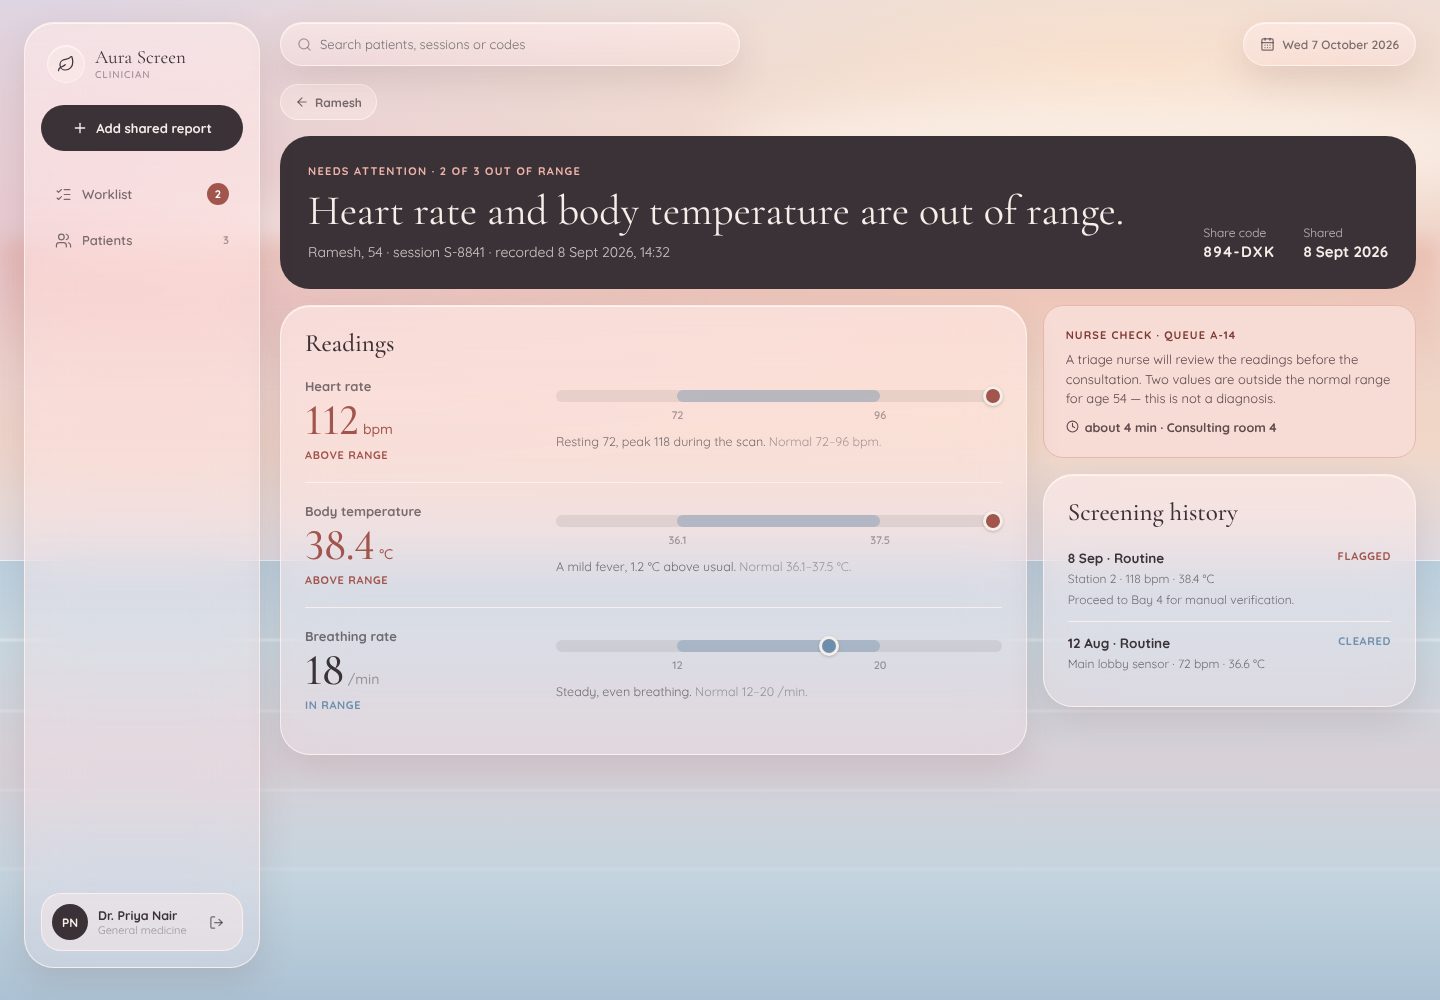
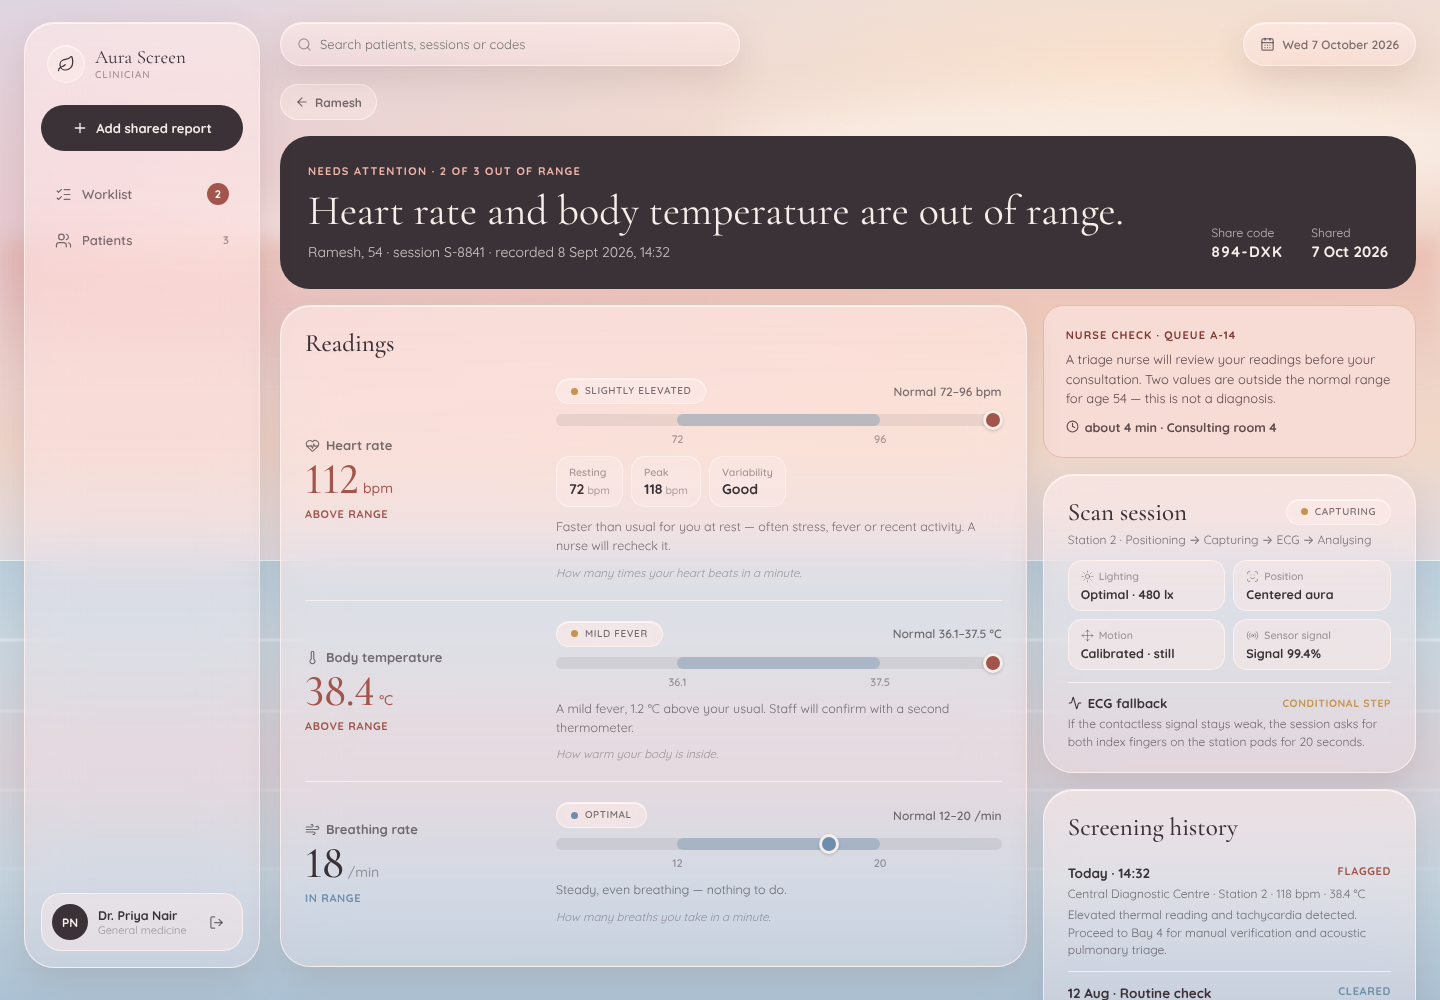
Show the full report on the doctor side, as the patient sees it
- Each reading now carries its status (e.g. "Slightly elevated"), the
  normal range, what the measure is, and the note; heart rate adds
  resting, peak and variability
- New scan session panel: station, steps run, capture conditions
  (lighting, position, motion, sensor signal) and the ECG fallback
- The report's encryption note sits at the foot of the page
- API: GET /doctor/reports/:code also returns the screening session
  behind the report (`scan`)

Claude-Session: https://claude.ai/code/session_01YA8w2iACEsj6YELkVvd1D9

diff --git a/client/src/pages/Doctor/DoctorReport.jsx b/client/src/pages/Doctor/DoctorReport.jsx
@@ -1,8 +1,8 @@
 import { Link, useParams } from 'react-router-dom';
-import { ArrowLeft, Clock } from 'lucide-react';
+import { ArrowLeft, Clock, ShieldCheck, Sun, ScanFace, Move, Radio, Activity } from 'lucide-react';
 import { getDoctorReport } from '../../api';
 import useResource from '../../hooks/useResource';
-import { Spinner, ErrorState } from '../../components/ui';
+import { Spinner, ErrorState, StatusPill } from '../../components/ui';
 import { rangePosition } from '../../utils/range';
 import { RESULTS } from '../../utils/results';
 import { formatDate } from '../../components/SessionCard';
@@ -12,6 +12,23 @@ import styles from './DoctorReport.module.css';
 
 const POSITION_LABEL = { above: 'Above range', below: 'Below range', within: 'In range' };
 
+/** Readings some measures carry beyond the headline value. */
+const EXTRAS = {
+  heartRate: [
+    { key: 'resting', label: 'Resting', unit: 'bpm' },
+    { key: 'peak', label: 'Peak', unit: 'bpm' },
+    { key: 'variability', label: 'Variability' },
+  ],
+};
+
+/** The capture conditions the station recorded, in the order a clinician checks them. */
+const ENVIRONMENT = [
+  { key: 'lighting', label: 'Lighting', icon: Sun },
+  { key: 'position', label: 'Position', icon: ScanFace },
+  { key: 'motion', label: 'Motion', icon: Move },
+  { key: 'sensorStream', label: 'Sensor signal', icon: Radio },
+];
+
 /** One shared report, as the doctor reads it: the verdict first, every reading on its range, then the nurse check and history. */
 export default function DoctorReport() {
   const code = normaliseCode(useParams().code);
@@ -20,7 +37,7 @@ export default function DoctorReport() {
   if (error) return <ErrorState message={error} />;
   if (!data) return <Spinner />;
 
-  const { report, patient, history } = data;
+  const { report, patient, history, scan } = data;
   const level = triage(report);
   const readings = RESULTS.filter(({ key }) => report[key]);
   const recorded = report.recordedAt && new Date(report.recordedAt);
@@ -58,14 +75,17 @@ export default function DoctorReport() {
         <section className={styles.panel}>
           <h2 className={styles.panelTitle}>Readings</h2>
           <ul className={styles.readings}>
-            {readings.map(({ key, label, unit }) => {
+            {readings.map(({ key, label, unit, icon: Icon, measures }) => {
               const r = report[key];
               const position = rangePosition(r.value, r.normalRange)?.position;
               const out = position && position !== 'within';
+              const extras = (EXTRAS[key] ?? []).filter((x) => r[x.key] != null && r[x.key] !== '');
               return (
                 <li key={key} className={styles.reading}>
                   <div>
-                    <h3 className={styles.readingLabel}>{label}</h3>
+                    <h3 className={styles.readingLabel}>
+                      <Icon size={15} strokeWidth={1.8} aria-hidden="true" /> {label}
+                    </h3>
                     <p className={`${styles.value} ${out ? styles.out : ''}`.trim()}>
                       {r.value}
                       <small> {unit}</small>
@@ -73,11 +93,26 @@ export default function DoctorReport() {
                     <p className={`${styles.position} ${out ? styles.out : ''}`.trim()}>{POSITION_LABEL[position] ?? r.status}</p>
                   </div>
                   <div className={styles.readingDetail}>
+                    <div className={styles.readingTop}>
+                      {r.status && <StatusPill>{r.status}</StatusPill>}
+                      {r.normalRange && <span className={styles.range}>Normal {r.normalRange}</span>}
+                    </div>
                     <RangeTrack value={r.value} normalRange={r.normalRange} unit={unit} size="lg" />
-                    <p className={styles.note}>
-                      {r.note}
-                      {r.normalRange && <span className={styles.range}> Normal {r.normalRange}.</span>}
-                    </p>
+                    {extras.length > 0 && (
+                      <dl className={styles.extras}>
+                        {extras.map((x) => (
+                          <div key={x.key}>
+                            <dt>{x.label}</dt>
+                            <dd>
+                              {r[x.key]}
+                              {x.unit && <small> {x.unit}</small>}
+                            </dd>
+                          </div>
+                        ))}
+                      </dl>
+                    )}
+                    {r.note && <p className={styles.note}>{r.note}</p>}
+                    <p className={styles.measures}>{measures}</p>
                   </div>
                 </li>
               );
@@ -95,6 +130,8 @@ export default function DoctorReport() {
               </p>
             </section>
           )}
+
+          {scan && <ScanPanel scan={scan} />}
 
           <section className={styles.panel}>
             <h2 className={styles.panelTitle}>Screening history</h2>
@@ -119,7 +156,53 @@ export default function DoctorReport() {
           </section>
         </div>
       </div>
+
+      {report.encryptionNote && (
+        <p className={`${styles.secure} icon-line`}>
+          <ShieldCheck size={13} aria-hidden="true" /> {report.encryptionNote}
+        </p>
+      )}
     </>
+  );
+}
+
+const capitalise = (text) => text.charAt(0).toUpperCase() + text.slice(1);
+
+/** Where and how the readings were captured: station, steps run, capture conditions, and the ECG fallback. */
+function ScanPanel({ scan }) {
+  const conditions = ENVIRONMENT.filter(({ key }) => scan.environment?.[key]);
+  return (
+    <section className={styles.panel}>
+      <div className={styles.scanHead}>
+        <h2 className={styles.panelTitle}>Scan session</h2>
+        {scan.status && <StatusPill>{scan.status}</StatusPill>}
+      </div>
+      <p className={styles.historyMeta}>
+        {capitalise(scan.stationId.replace(/-/g, ' '))}
+        {scan.steps?.length > 0 && ` · ${scan.steps.join(' → ')}`}
+      </p>
+      {conditions.length > 0 && (
+        <dl className={styles.conditions}>
+          {conditions.map(({ key, label, icon: Icon }) => (
+            <div key={key}>
+              <dt>
+                <Icon size={13} strokeWidth={1.8} aria-hidden="true" /> {label}
+              </dt>
+              <dd>{scan.environment[key]}</dd>
+            </div>
+          ))}
+        </dl>
+      )}
+      {scan.ecgFallback?.title && (
+        <div className={styles.ecg}>
+          <p className={styles.ecgTitle}>
+            <Activity size={14} strokeWidth={1.8} aria-hidden="true" /> {scan.ecgFallback.title}
+            {scan.ecgFallback.badge && <span>{scan.ecgFallback.badge}</span>}
+          </p>
+          {scan.ecgFallback.description && <p className={styles.historyMeta}>{capitalise(scan.ecgFallback.description)}</p>}
+        </div>
+      )}
+    </section>
   );
 }
 

diff --git a/client/src/pages/Doctor/DoctorReport.module.css b/client/src/pages/Doctor/DoctorReport.module.css
@@ -140,6 +140,9 @@
 }
 
 .readingLabel {
+  display: flex;
+  align-items: center;
+  gap: 6px;
   font-size: 13px;
   font-weight: 700;
   color: var(--ink-2);
@@ -187,7 +190,114 @@
   color: var(--ink-2);
 }
 
+.readingTop {
+  display: flex;
+  flex-wrap: wrap;
+  align-items: center;
+  justify-content: space-between;
+  gap: 6px 12px;
+}
+
 .range {
+  font-size: 12px;
+  font-weight: 600;
+  color: var(--ink-2);
+}
+
+.extras {
+  display: flex;
+  flex-wrap: wrap;
+  gap: 8px;
+  margin: 0;
+}
+
+.extras > div,
+.conditions > div {
+  padding: 8px 12px;
+  border-radius: 14px;
+  background: var(--glass-tile);
+  border: 1px solid var(--glass-edge);
+}
+
+.extras dt,
+.conditions dt {
+  font-size: 10.5px;
+  font-weight: 600;
+  color: var(--ink-3);
+}
+
+.extras dd {
+  margin: 1px 0 0;
+  font-size: 14px;
+  font-weight: 700;
+}
+
+.extras dd small {
+  font-size: 10.5px;
+  font-weight: 500;
+  color: var(--ink-3);
+}
+
+.measures {
+  font-size: 11.5px;
+  font-style: italic;
+  color: var(--ink-3);
+}
+
+/* ---- scan session ---- */
+.scanHead {
+  display: flex;
+  align-items: center;
+  justify-content: space-between;
+  gap: 10px;
+}
+
+.conditions {
+  display: grid;
+  grid-template-columns: repeat(2, minmax(0, 1fr));
+  gap: 8px;
+  margin: 12px 0 0;
+}
+
+.conditions dt {
+  display: flex;
+  align-items: center;
+  gap: 5px;
+}
+
+.conditions dd {
+  margin: 3px 0 0;
+  font-size: 12.5px;
+  font-weight: 700;
+}
+
+.ecg {
+  margin-top: 12px;
+  padding-top: 12px;
+  border-top: 1px solid var(--glass-edge);
+}
+
+.ecgTitle {
+  display: flex;
+  flex-wrap: wrap;
+  align-items: center;
+  gap: 6px;
+  font-size: 13px;
+  font-weight: 700;
+}
+
+.ecgTitle span {
+  margin-left: auto;
+  font-size: 10.5px;
+  font-weight: 700;
+  letter-spacing: 0.06em;
+  text-transform: uppercase;
+  color: var(--amber);
+}
+
+.secure {
+  justify-content: center;
+  font-size: 11.5px;
   color: var(--ink-3);
 }
 

diff --git a/server/routes/doctor.js b/server/routes/doctor.js
@@ -4,6 +4,7 @@ const Doctor = require('../models/Doctor');
 const Report = require('../models/Report');
 const ReportShare = require('../models/ReportShare');
 const ScreeningLog = require('../models/ScreeningLog');
+const ScreeningSession = require('../models/ScreeningSession');
 const requireDoctor = require('../middleware/requireDoctor');
 const { issueDoctorToken } = require('../lib/token');
 const google = require('../lib/google');
@@ -111,17 +112,21 @@ router.get('/reports/:shareCode', async (req, res) => {
   if (!report) return res.status(404).json({ error: 'No report matches that code. Check it with the patient.' });
 
   const patient = report.patientId;
-  const [share, history] = await Promise.all([
+  const [share, history, scan] = await Promise.all([
     ReportShare.findOneAndUpdate(
       { doctorId: req.doctor._id, reportId: report._id },
       { $set: { lastOpenedAt: new Date() }, $setOnInsert: { patientId: patient._id } },
       { upsert: true, new: true }
     ).lean(),
     ScreeningLog.find({ patientId: patient._id }).select('-patientId -__v').sort({ occurredAt: -1 }).lean(),
+    // how the capture went at the station: the same session the patient's report came from
+    ScreeningSession.findOne({ sessionId: report.sessionId, patientId: patient._id })
+      .select('stationId status steps environment ecgFallback')
+      .lean(),
   ]);
 
   const { patientId, ...rest } = report;
-  res.json({ report: { ...rest, sharedAt: share.sharedAt }, patient, history });
+  res.json({ report: { ...rest, sharedAt: share.sharedAt }, patient, history, scan });
 });
 
 module.exports = router;
